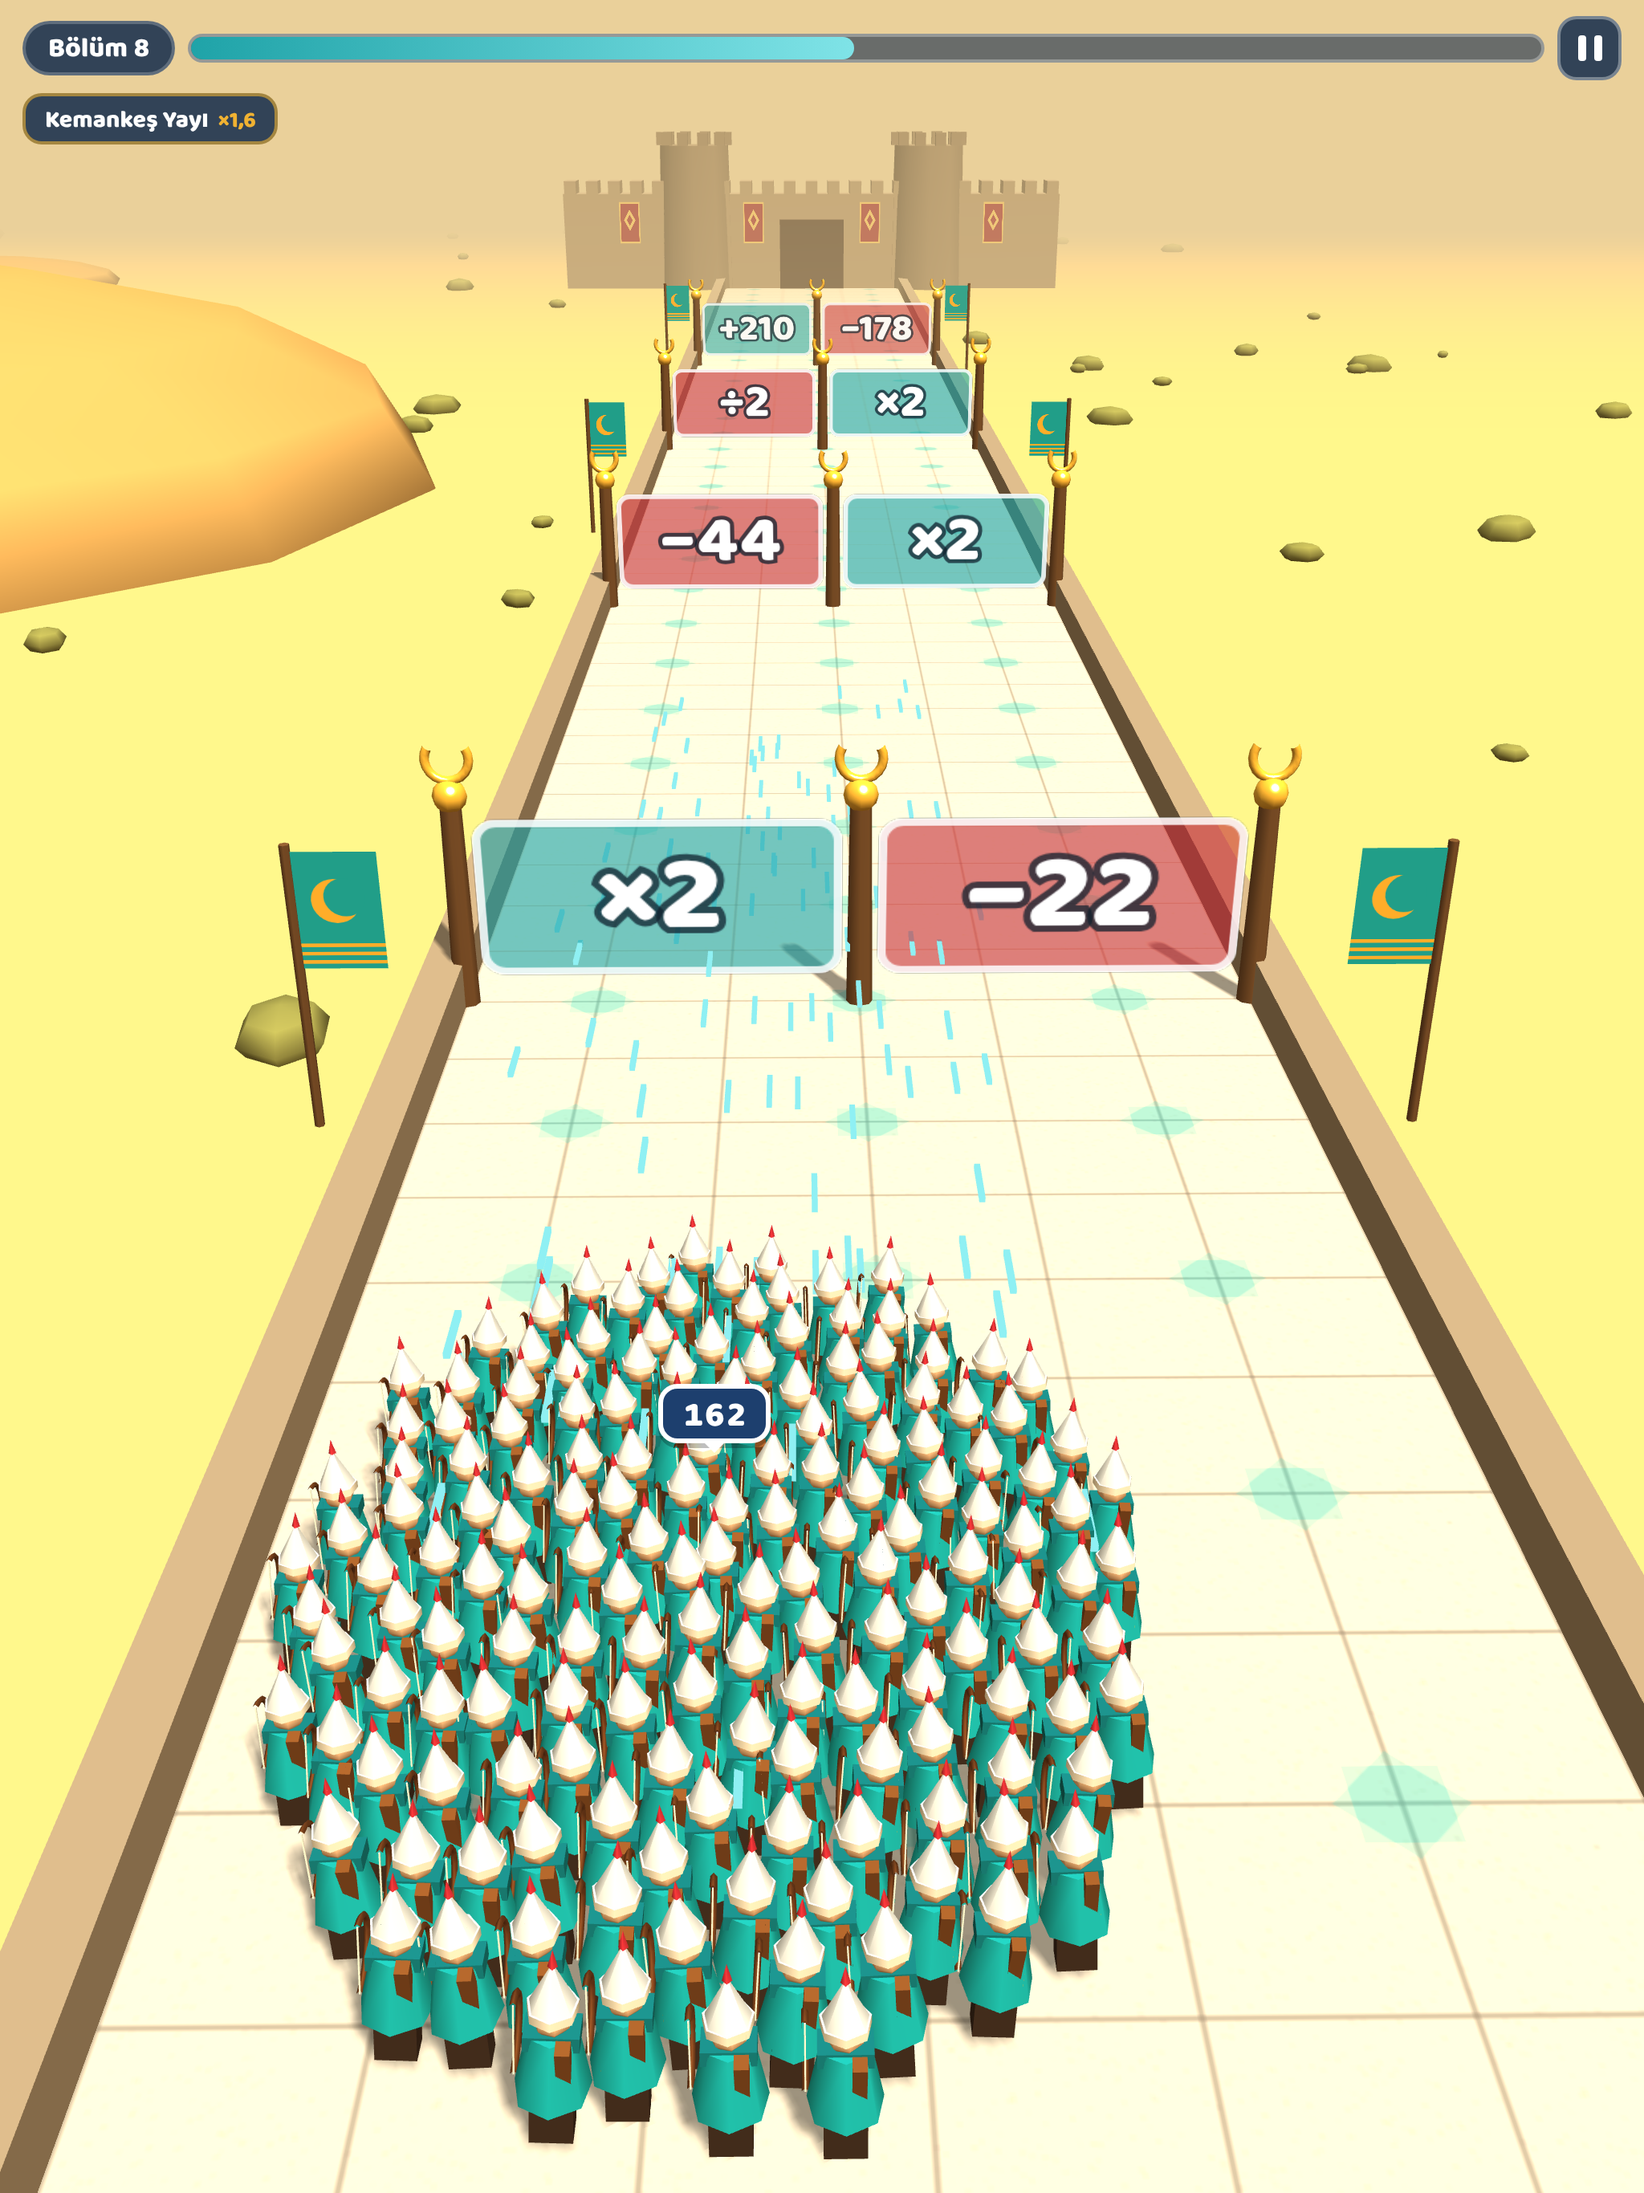
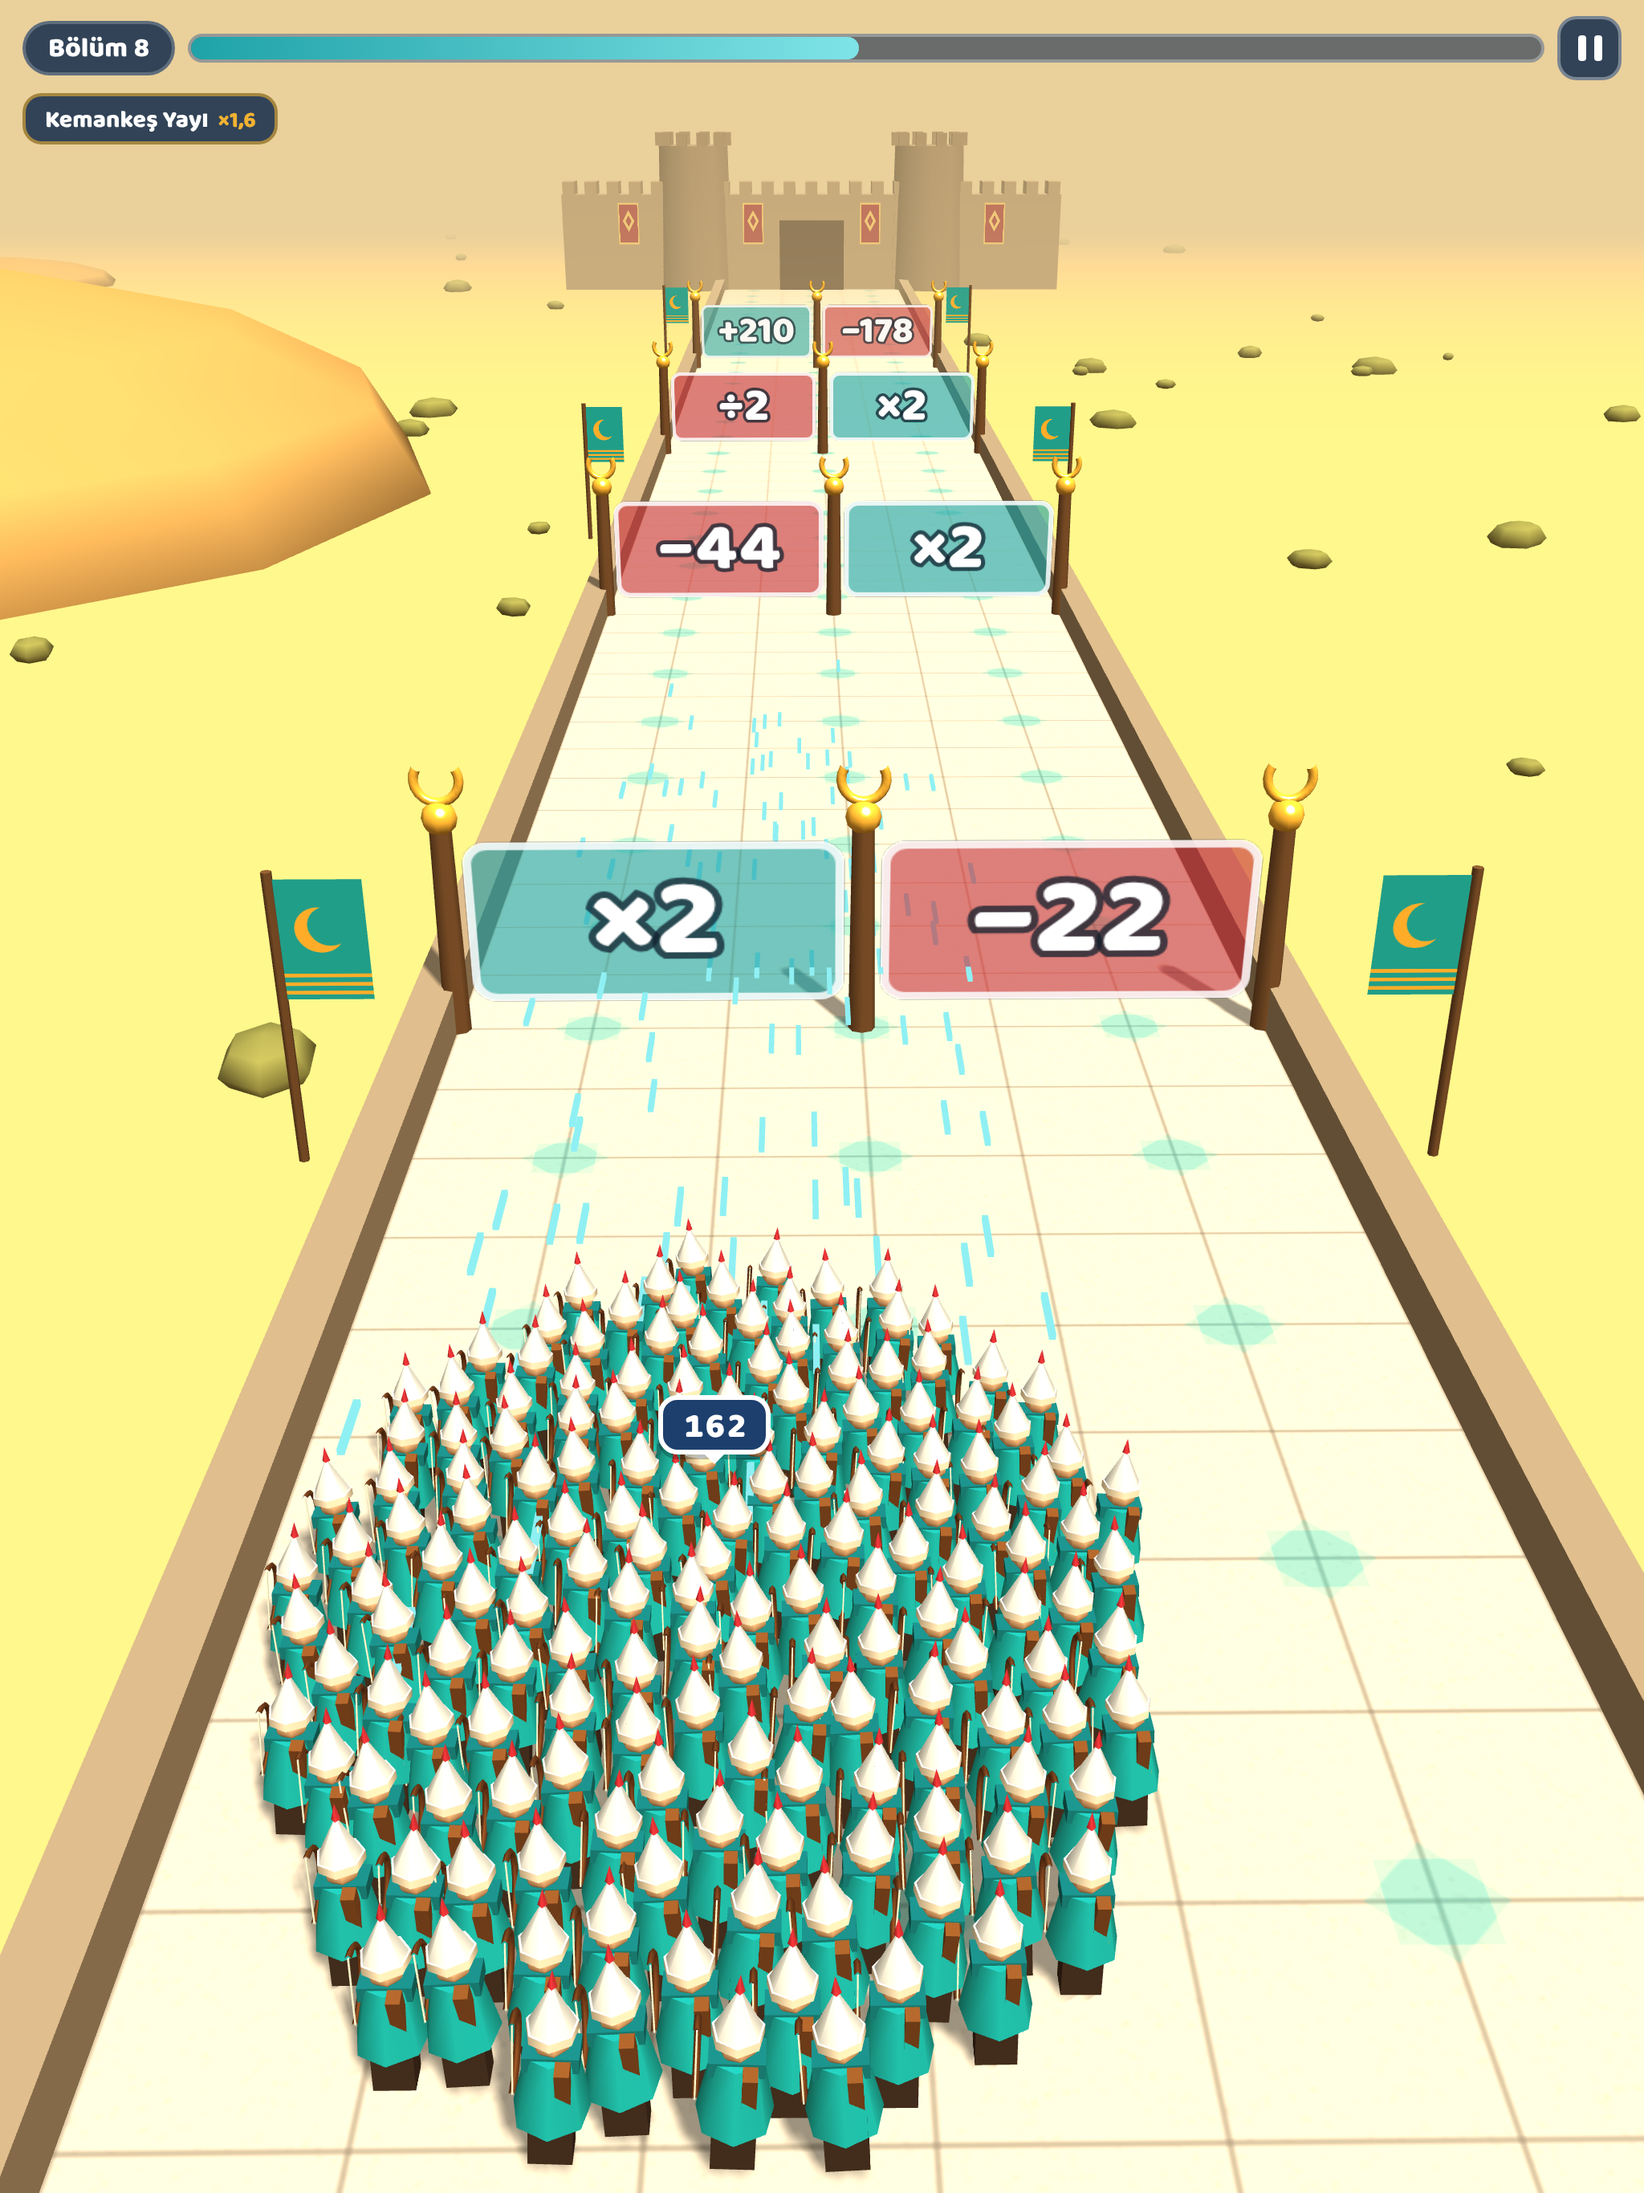
1.4: mağaza görselleri ve metinleri
Claude-Session: https://claude.ai/code/session_01XFKqTkpwnpMLyQPGEr1eX2

diff --git a/araclar/magaza-gorselleri.js b/araclar/magaza-gorselleri.js
@@ -24,8 +24,8 @@ const which = process.argv[2] || 'hepsi';
     const scenes = [
       ['01-sefer', '/www/index.html?kare=7&ileri=130', 3500],
       ['02-dev', '/www/index.html?kare=19&ileri=40', 4000],
-      ['03-fetih', '/www/index.html?kare=549&ileri=40', 4000],
-      ['04-harita', '/www/index.html?kare=740&ekran=levels&bolge=52', 2500],
+      ['03-gece', '/www/index.html?kare=720&ileri=330&hava=gece', 3500],
+      ['04-harita', '/www/index.html?kare=1060&ekran=levels&bolge=105', 2500],
       ['05-menu', '/www/index.html?kare=0&ekran=menu', 3000]
     ];
     const devices = [
